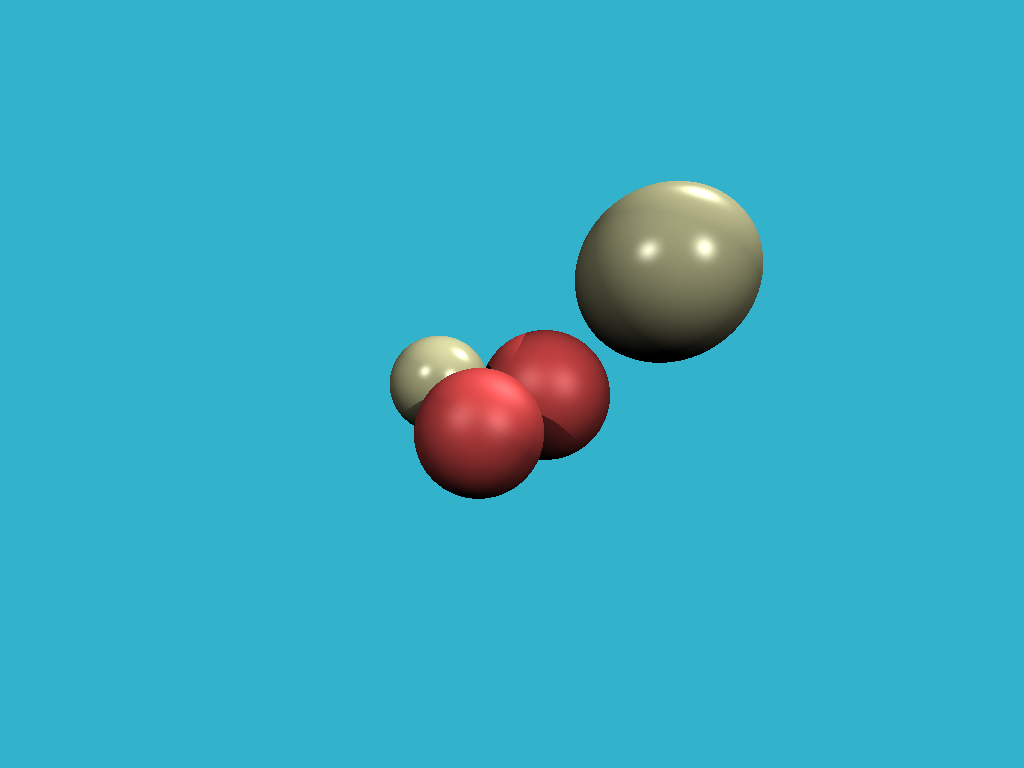
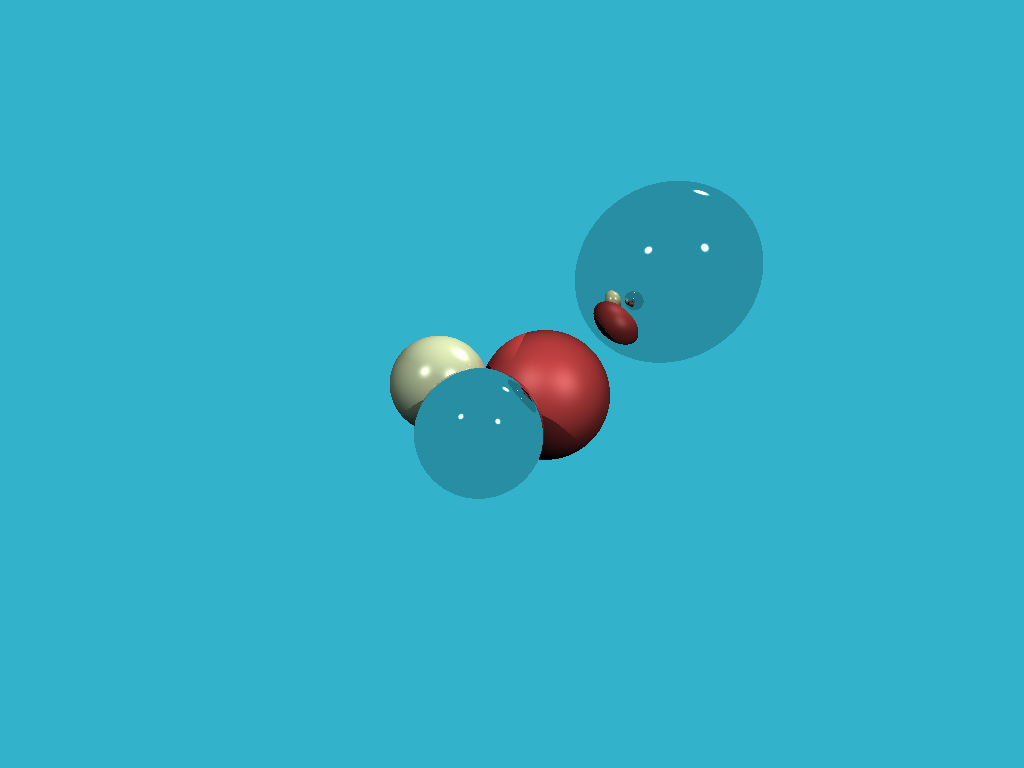
added reflection

Changed region(s): [[0.5625, 0.2188, 0.75, 0.4688], [0.4062, 0.4688, 0.5312, 0.6562]]

diff --git a/src/tinyRayTracer.cpp b/src/tinyRayTracer.cpp
@@ -19,9 +19,9 @@ struct Light
 };
 struct Material
 {
-	Material(const Vec2f& a, const Vec3f& color, const float s) : albedo(a), specular_exponent(s), diffuse_color(color) {};
-	Material() : albedo(1,0), specular_exponent(), diffuse_color() {};
-	Vec2f albedo;
+	Material(const Vec3f& a, const Vec3f& color, const float s) : albedo(a), specular_exponent(s), diffuse_color(color) {};
+	Material() : albedo(1,0,0), specular_exponent(), diffuse_color() {};
+	Vec3f albedo;
 	float specular_exponent;
 	Vec3f diffuse_color;
 
@@ -84,33 +84,39 @@ bool sceneIntersect(const Vec3f& orig, Vec3f& dir, std::vector<Sphere>& spheres,
 
 }
 
-Vec3f cast_ray(const Vec3f& orig, Vec3f& dir, std::vector<Sphere>& spheres, std::vector<Light>& lights)
+Vec3f cast_ray(const Vec3f& orig, Vec3f& dir, std::vector<Sphere>& spheres, std::vector<Light>& lights, size_t depth=0)//depth is initialized here, pretty neat
 {
 	Vec3f hit, N;//hit pos and normal vector
 	Material mat;//material of the pixel
+	if(depth>4||!sceneIntersect(orig, dir, spheres, hit, N, mat))//refelction base case
+		return Vec3f(0.2, 0.7, 0.8);
+	
+//else{ ray interescted with a sphere
+	Vec3f reflectionDir = reflect(dir, N).normalize();//get reflection ray
+	Vec3f reflectionOrig = reflectionDir * N < 0 ? hit - N * 1e-3 : hit + N * 1e-3;//get reflection origin with a slight offset as to not collide with itself: a negative dot product would mean that the ray is directed away from eachother, therefore the reflection would not occur
+	//gets the color of the pixel based on the refelction.the depth is incremented by one and reflected at most 4 times
+	Vec3f reflectionColor = cast_ray(reflectionOrig, reflectionDir, spheres, lights, depth++);
 
-	if (sceneIntersect(orig, dir, spheres, hit, N, mat))//check if intersect
+	float diffuseLightIntensity = 0,specularLightIntensity=0;
+
+	for (auto l : lights)
 	{
-		float diffuseLightIntensity = 0,specularLightIntensity=0;
+		Vec3f lightDir = (l.postion - hit).normalize();
 
-		for (auto l : lights)
-		{
-			Vec3f lightDir = (l.postion - hit).normalize();
+		//shadows
+		float lightDistance = (l.postion - hit).norm();//remember norm is the length of the vector
+		Vec3f shadowOrig = (lightDir * N) < 0 ? hit - N * 1e-3 : hit + N*1e-3;
+		Vec3f shadowHit, shadowN;
+		Material tempMat;
+		if (sceneIntersect(shadowOrig, lightDir, spheres, shadowHit, shadowN, tempMat) && (shadowHit - shadowOrig).norm() < lightDistance)
+			continue;
 
-			//shadows
-			float lightDistance = (l.postion - hit).norm();//remember norm is the length of the vector
-			Vec3f shadowOrig = (lightDir * N) < 0 ? hit - N * 1e-3 : hit + N*1e-3;
-			Vec3f shadowHit, shadowN;
-			Material tempMat;
-			if (sceneIntersect(shadowOrig, lightDir, spheres, shadowHit, shadowN, tempMat) && (shadowHit - shadowOrig).norm() < lightDistance)
-				continue;
-
-			diffuseLightIntensity += l.intensity * std::max(0.f, lightDir * N);
-			specularLightIntensity += std::pow(std::max(0.f, reflect(lightDir, N) * dir), mat.specular_exponent)*l.intensity;
-		}
-		return mat.diffuse_color * diffuseLightIntensity * mat.albedo[0] + Vec3f(1.f,1.f,1.f) * specularLightIntensity * mat.albedo[1];
+		diffuseLightIntensity += l.intensity * std::max(0.f, lightDir * N);
+		specularLightIntensity += std::pow(std::max(0.f, reflect(lightDir, N) * dir), mat.specular_exponent)*l.intensity;
 	}
-	else return Vec3f(0.2, 0.7, 0.8);
+		return mat.diffuse_color * diffuseLightIntensity * mat.albedo[0] + Vec3f(1.f,1.f,1.f) * specularLightIntensity * mat.albedo[1]+reflectionColor*mat.albedo[2];
+	
+	
 
 }
 
@@ -151,14 +157,15 @@ void render(std::vector<Sphere>& spheres, std::vector<Light>& lights) {
 
 int main() {
 
-	Material ivory(Vec2f(0.6, 0.3), Vec3f(0.4, 0.4, 0.3), 50.);
-	Material red_rubber(Vec2f(0.9, 0.1), Vec3f(0.3, 0.1, 0.1), 10.);
+	Material ivory(Vec3f(0.6, 0.3,.1f), Vec3f(0.4, 0.4, 0.3), 50.);
+	Material red_rubber(Vec3f(0.9, 0.1,.0f), Vec3f(0.3, 0.1, 0.1), 10.);
+	Material mirror(Vec3f(0.0, 10.0, 0.8), Vec3f(1.0, 1.0, 1.0), 1425.);
 
 	std::vector<Sphere> spheres;
 	spheres.push_back(Sphere(Vec3f(-3, 0, -16), 2, ivory));
-	spheres.push_back(Sphere(Vec3f(-1.0, -1.5, -12), 2, red_rubber));
+	spheres.push_back(Sphere(Vec3f(-1.0, -1.5, -12), 2, mirror));
 	spheres.push_back(Sphere(Vec3f(1.5, -0.5, -18), 3, red_rubber));
-	spheres.push_back(Sphere(Vec3f(7, 5, -18), 4, ivory));
+	spheres.push_back(Sphere(Vec3f(7, 5, -18), 4, mirror));
 
 	std::vector<Light>  lights;
 	lights.push_back(Light(Vec3f(-20, 20, 20), 1.5));
